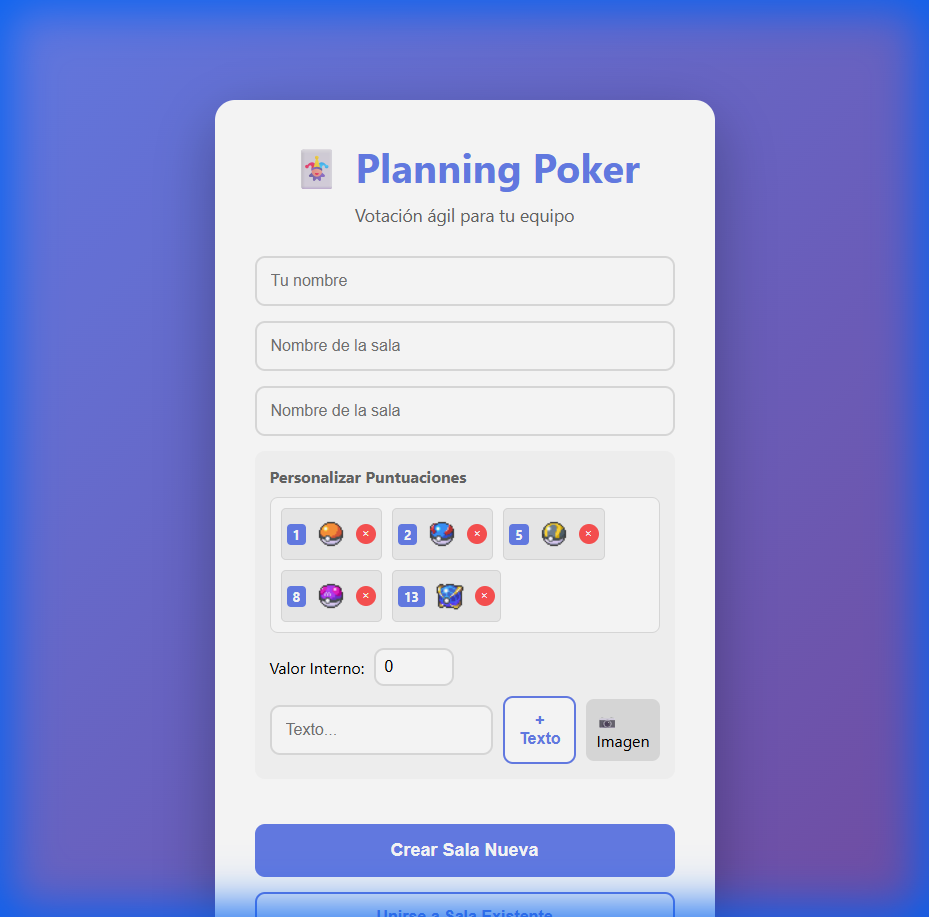
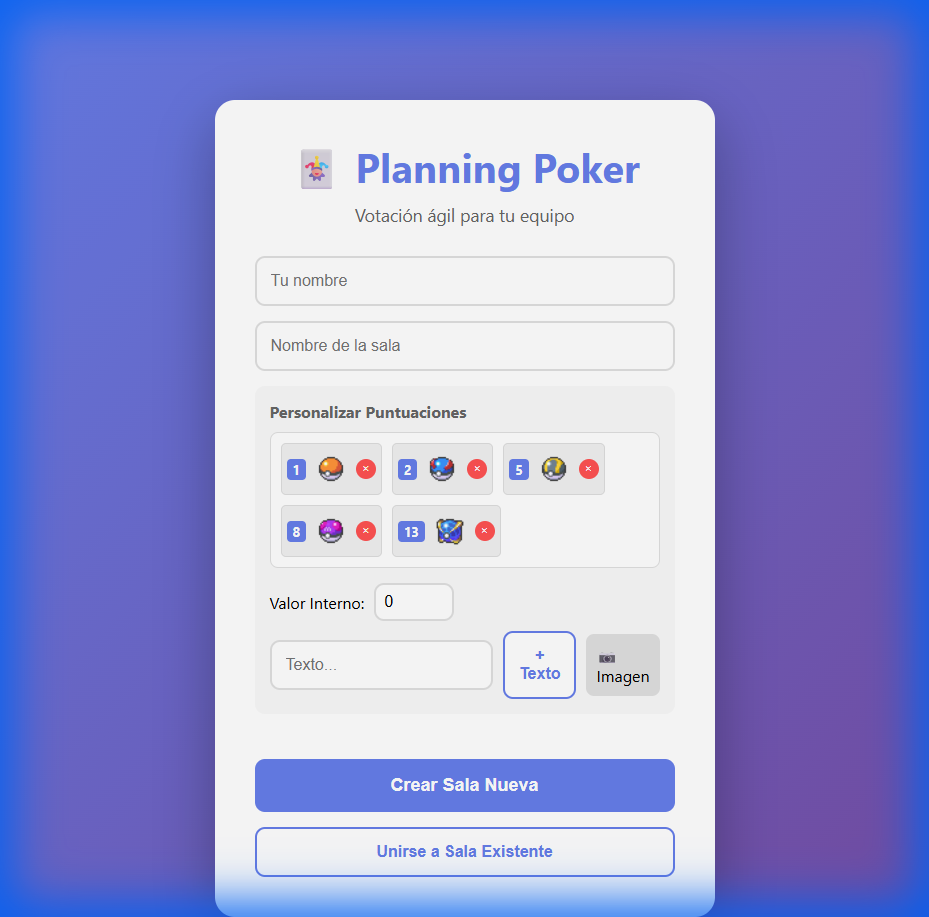
fix: remove duplicated room name input and update readme screenshot

diff --git a/frontend/src/App.tsx b/frontend/src/App.tsx
@@ -191,12 +191,7 @@ function CreateRoom() {
           onChange={(e) => setRoomName(e.target.value)}
         />
 
-        <input
-          type="text"
-          placeholder="Nombre de la sala"
-          value={roomName}
-          onChange={(e) => setRoomName(e.target.value)}
-        />
+
 
         <ScoreEditor value={customScores} onChange={setCustomScores} />
 
